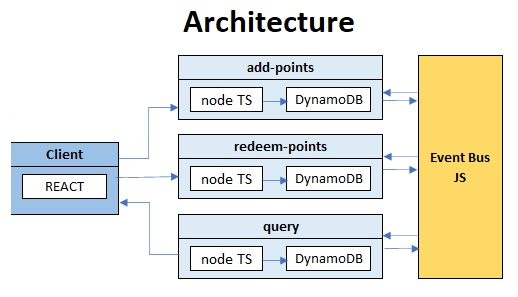
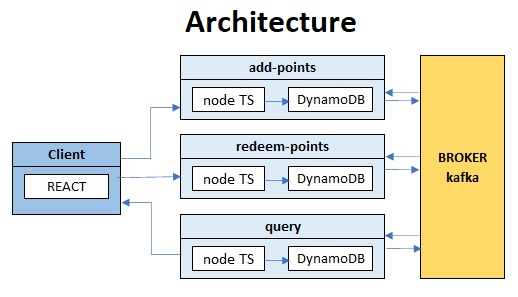
README updated

diff --git a/README.md b/README.md
@@ -15,7 +15,9 @@ Services:
 - Front: Using hooks and redux(easy scalable code)
 
 <img src="/images-doc/architectureImg.jpg" alt="Architecture" >
-<img src="/images-doc/servicesImg.jpg" alt="Services" >
+<img src="/images-doc/routesServicesImg.jpg" alt="Routes Services" >
+<img src="/images-doc/brokerServicesImg.jpg" alt="Broker Services" >
+
 <img src="/images-doc/tablesDbImg.jpg" alt="Data Base">
 <img src="/images-doc/frontImg.jpg" alt="Front React App">
 
@@ -56,7 +58,6 @@ kubectl apply -f https://raw.githubusercontent.com/kubernetes/ingress-nginx/cont
 6. default users to use (loging CC)
 	- 1234
 	- 4444
-
 
 
 ## To test
